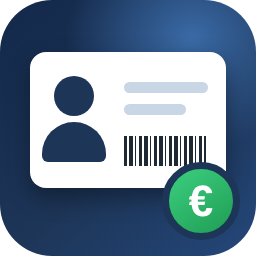
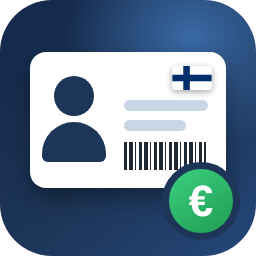
wp.org-ikoni ja banneri: Suomen lippu
Claude-Session: https://claude.ai/code/session_01WremRbxGDai2cTBYzcBUSZ

Changed region(s): [[0.4688, 0.25, 0.8438, 0.5625], [0.5625, 0.625, 0.6875, 0.6875], [0.5, 0.625, 0.5312, 0.6875]]

diff --git a/docs/brand/icon.html b/docs/brand/icon.html
@@ -6,7 +6,7 @@ body{width:256px;height:256px;background:transparent}
 .head{position:absolute;left:24px;top:24px;width:40px;height:40px;border-radius:50%;background:#1d3557}
 .body{position:absolute;left:12px;top:70px;width:64px;height:40px;border-radius:32px 32px 6px 6px;background:#1d3557}
 .l{position:absolute;left:94px;height:11px;border-radius:6px;background:#c9d6e5}
-.bar{position:absolute;left:94px;top:84px;width:82px;height:30px;background:repeating-linear-gradient(90deg,#1f2933 0 3px,#fff 3px 5px,#1f2933 5px 9px,#fff 9px 11px,#1f2933 11px 12px,#fff 12px 15px)}
+.bar{position:absolute;left:94px;top:90px;width:82px;height:28px;background:repeating-linear-gradient(90deg,#1f2933 0 3px,#fff 3px 5px,#1f2933 5px 9px,#fff 9px 11px,#1f2933 11px 12px,#fff 12px 15px)}
 .ok{position:absolute;right:16px;bottom:16px;width:78px;height:78px;border-radius:50%;background:linear-gradient(145deg,#3ccf7f,#1f9d55);border:7px solid #1d3557;display:flex;align-items:center;justify-content:center;color:#fff;font:800 44px Arial,sans-serif}
 </style></head><body><div class="bg"></div><div class="card"><div class="head"></div><div class="body"></div>
-<div class="l" style="top:30px;width:84px"></div><div class="l" style="top:52px;width:62px"></div><div class="bar"></div></div><div class="ok">€</div></body></html>
+<div class="l" style="top:48px;width:84px"></div><div class="l" style="top:68px;width:62px"></div><div class="bar"></div></div><div class="ok">€</div><svg style="position:absolute;left:172px;top:66px;width:40px;height:24px;border-radius:4px;box-shadow:0 2px 6px rgba(0,0,0,.35)" viewBox="0 0 18 11" xmlns="http://www.w3.org/2000/svg"><rect width="18" height="11" fill="#fff"/><rect x="5" width="3" height="11" fill="#002f6c"/><rect y="4" width="18" height="3" fill="#002f6c"/></svg></body></html>

diff --git a/docs/brand/banner.html b/docs/brand/banner.html
@@ -29,7 +29,7 @@ h1{font-size:96px;font-weight:800;letter-spacing:-.02em;margin:6px 0 14px;line-h
 .paid{position:absolute;right:14px;top:14px;background:#1f9d55;color:#fff;font-weight:700;font-size:15px;padding:5px 11px;border-radius:999px}
 .coin{position:absolute;right:380px;bottom:36px;width:96px;height:96px;border-radius:50%;background:linear-gradient(145deg,#3ccf7f,#1f9d55);box-shadow:0 14px 30px rgba(0,0,0,.35);display:flex;align-items:center;justify-content:center;font-size:54px;font-weight:800;color:#fff}
 </style></head><body><div class="dots"></div>
-<div class="left"><div class="tag">OH6KW</div><h1>Jäsenrekisteri</h1>
+<div class="left"><div class="tag"><svg class="flag" style="width:46px;height:28px;vertical-align:-5px;margin-right:14px;border-radius:3px;box-shadow:0 0 0 1px rgba(255,255,255,.35)" viewBox="0 0 18 11" xmlns="http://www.w3.org/2000/svg"><rect width="18" height="11" fill="#fff"/><rect x="5" width="3" height="11" fill="#002f6c"/><rect y="4" width="18" height="3" fill="#002f6c"/></svg>OH6KW</div><h1>Jäsenrekisteri</h1>
 <div class="sub">Jäsenrekisteri ja jäsenmaksulaskutus<br>suomalaisille yhdistyksille</div>
 <div class="chips"><span class="chip"><b>✓</b>Viitenumerot</span><span class="chip"><b>✓</b>QR- ja pankkiviivakoodi</span><span class="chip"><b>✓</b>PDF- ja paperilaskut</span><span class="chip"><b>✓</b>Pankkituonti</span><span class="chip"><b>✓</b>Vuosiraportti</span><span class="chip"><b>✓</b>Kirjanpitoraportti</span></div></div>
 <div class="paper"><div class="t">LASKU</div><div class="ln" style="width:60%"></div><div class="ln" style="width:85%"></div><div class="ln" style="width:75%"></div><div class="ln" style="width:50%"></div>

diff --git a/CHANGELOG.md b/CHANGELOG.md
@@ -19,7 +19,7 @@ Tekijä: Jarno Jaskari (oh6kw). Versiosta 3.0 alkaen lisäosaa on kehitetty yhde
 - **Toimii vain hallintapaneelissa:** README, wordpress.orgin kuvaus ja Tietoja-sivu kertovat, ettei lisäosa julkaise sivustolle mitään (ei sivuja, lomakkeita, lyhytkoodeja eikä lohkoja) ja että WordPress hoitaa kirjautumisen, käyttäjät, automaattiset päivitykset sekä webhotellin varmuuskopiot ja HTTPS:n.
 - wordpress.orgin kuvaus jäsennelty uudelleen: sähköposti- ja paperilasku omina kohtinaan, *Raportit vuosikokoukseen ja kirjanpitäjälle*, *Tietosuoja, varmuuskopio ja siirto*. Uudet usein kysytyt kysymykset: näkyykö sivustolla jotain, ja tekeekö lisäosa kirjanpidon.
 - Uusi kuvakaappaus *Jäsenmaksut kirjanpitoon* (README ja wordpress.org, kuva 12).
-- Uusi wordpress.orgin ikoni ja banneri (lähteet `docs/brand/`).
+- Uusi wordpress.orgin ikoni ja banneri, joissa pieni Suomen lippu (lähteet `docs/brand/`).
 - Kuvat 02, 05 ja 11 otettu uudelleen: päivämäärät suomalaisessa muodossa ja jäsenlomake nykyisen näköisenä.
 - Vanhentunut ohje päivityksestä versiosta 4.6.4 tai vanhemmasta poistettu.
 
